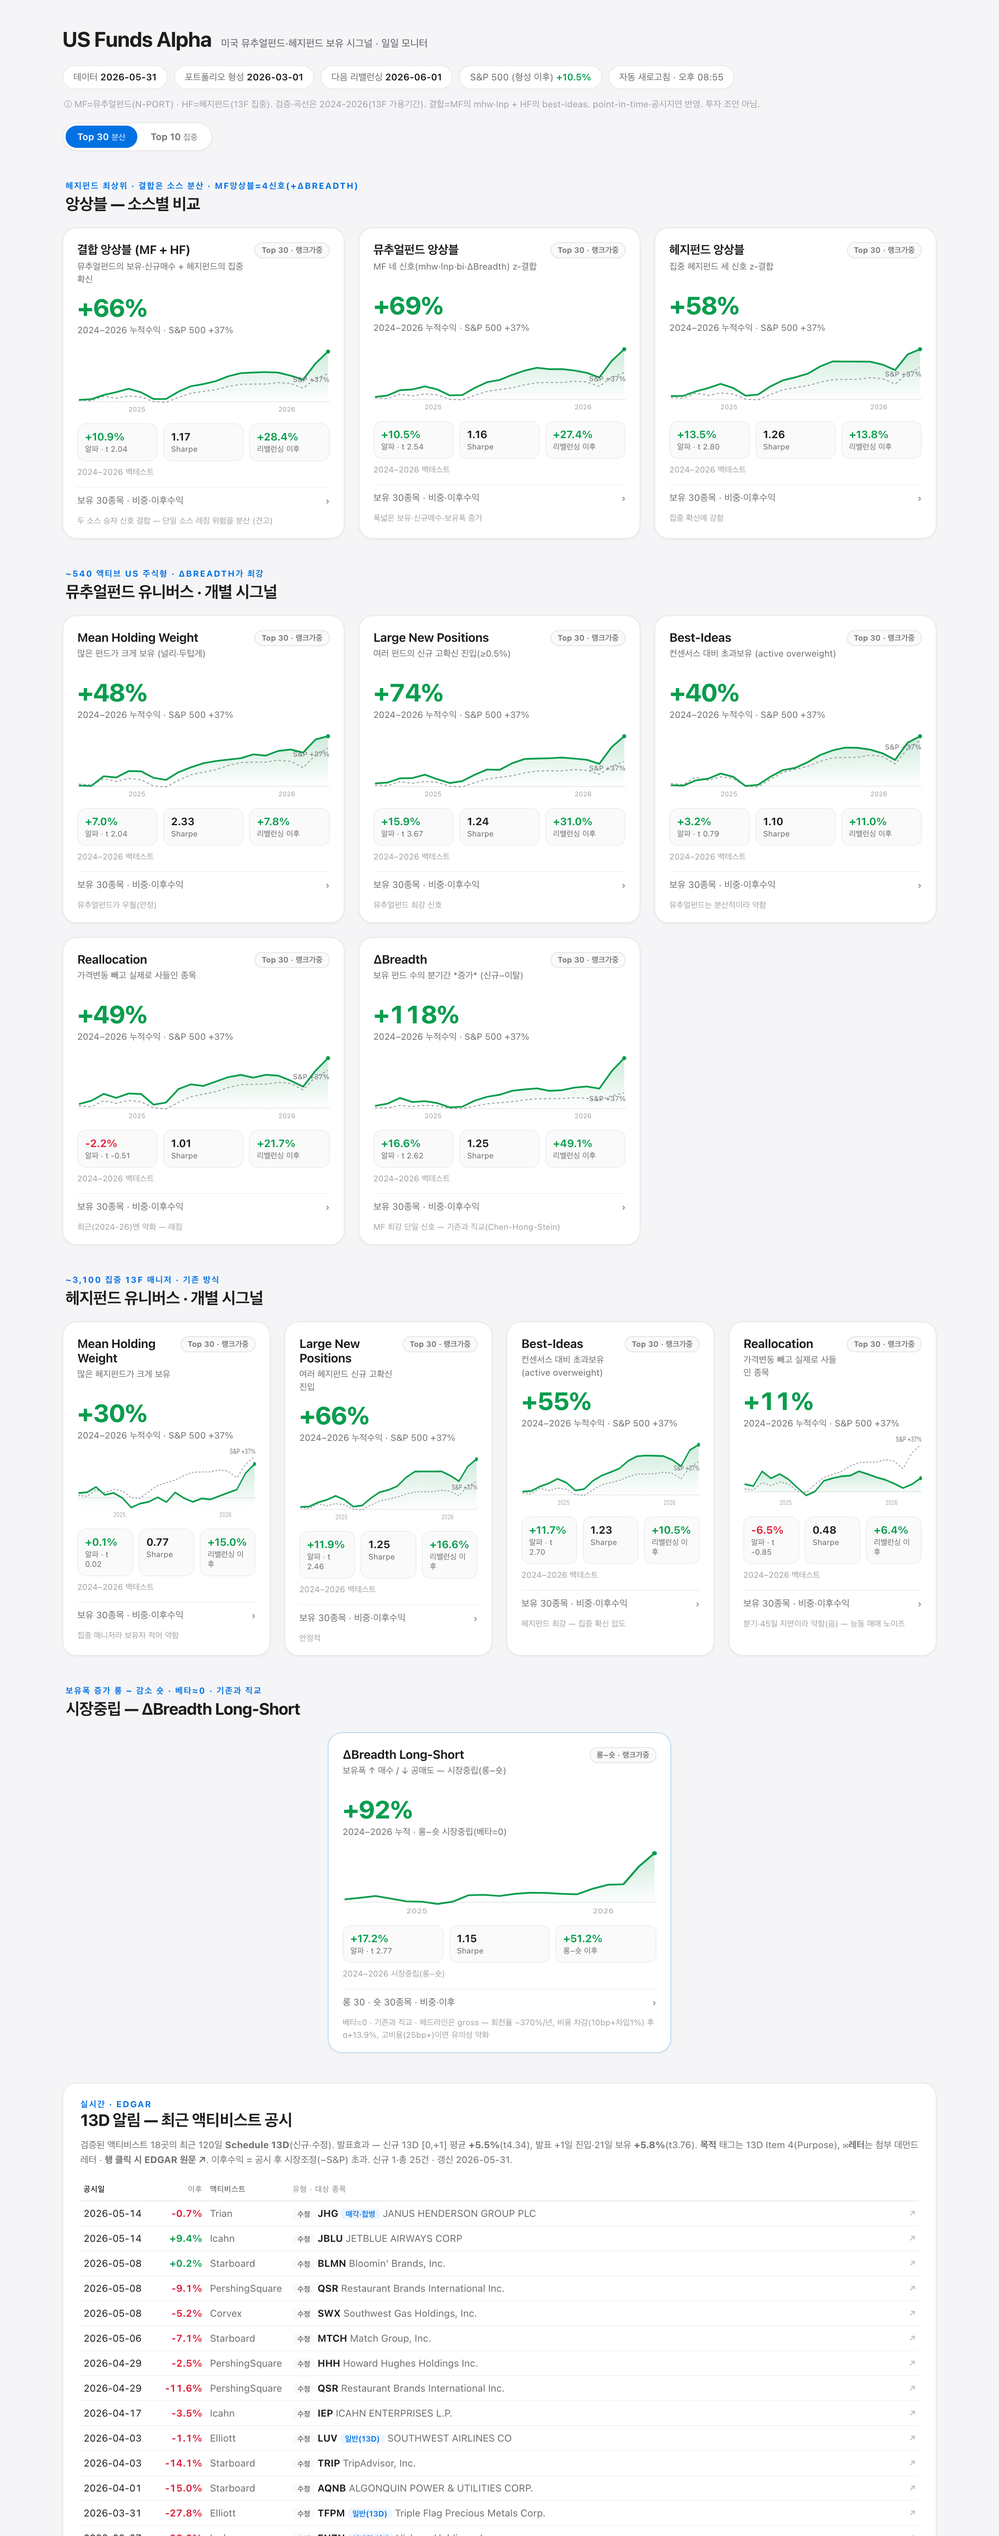
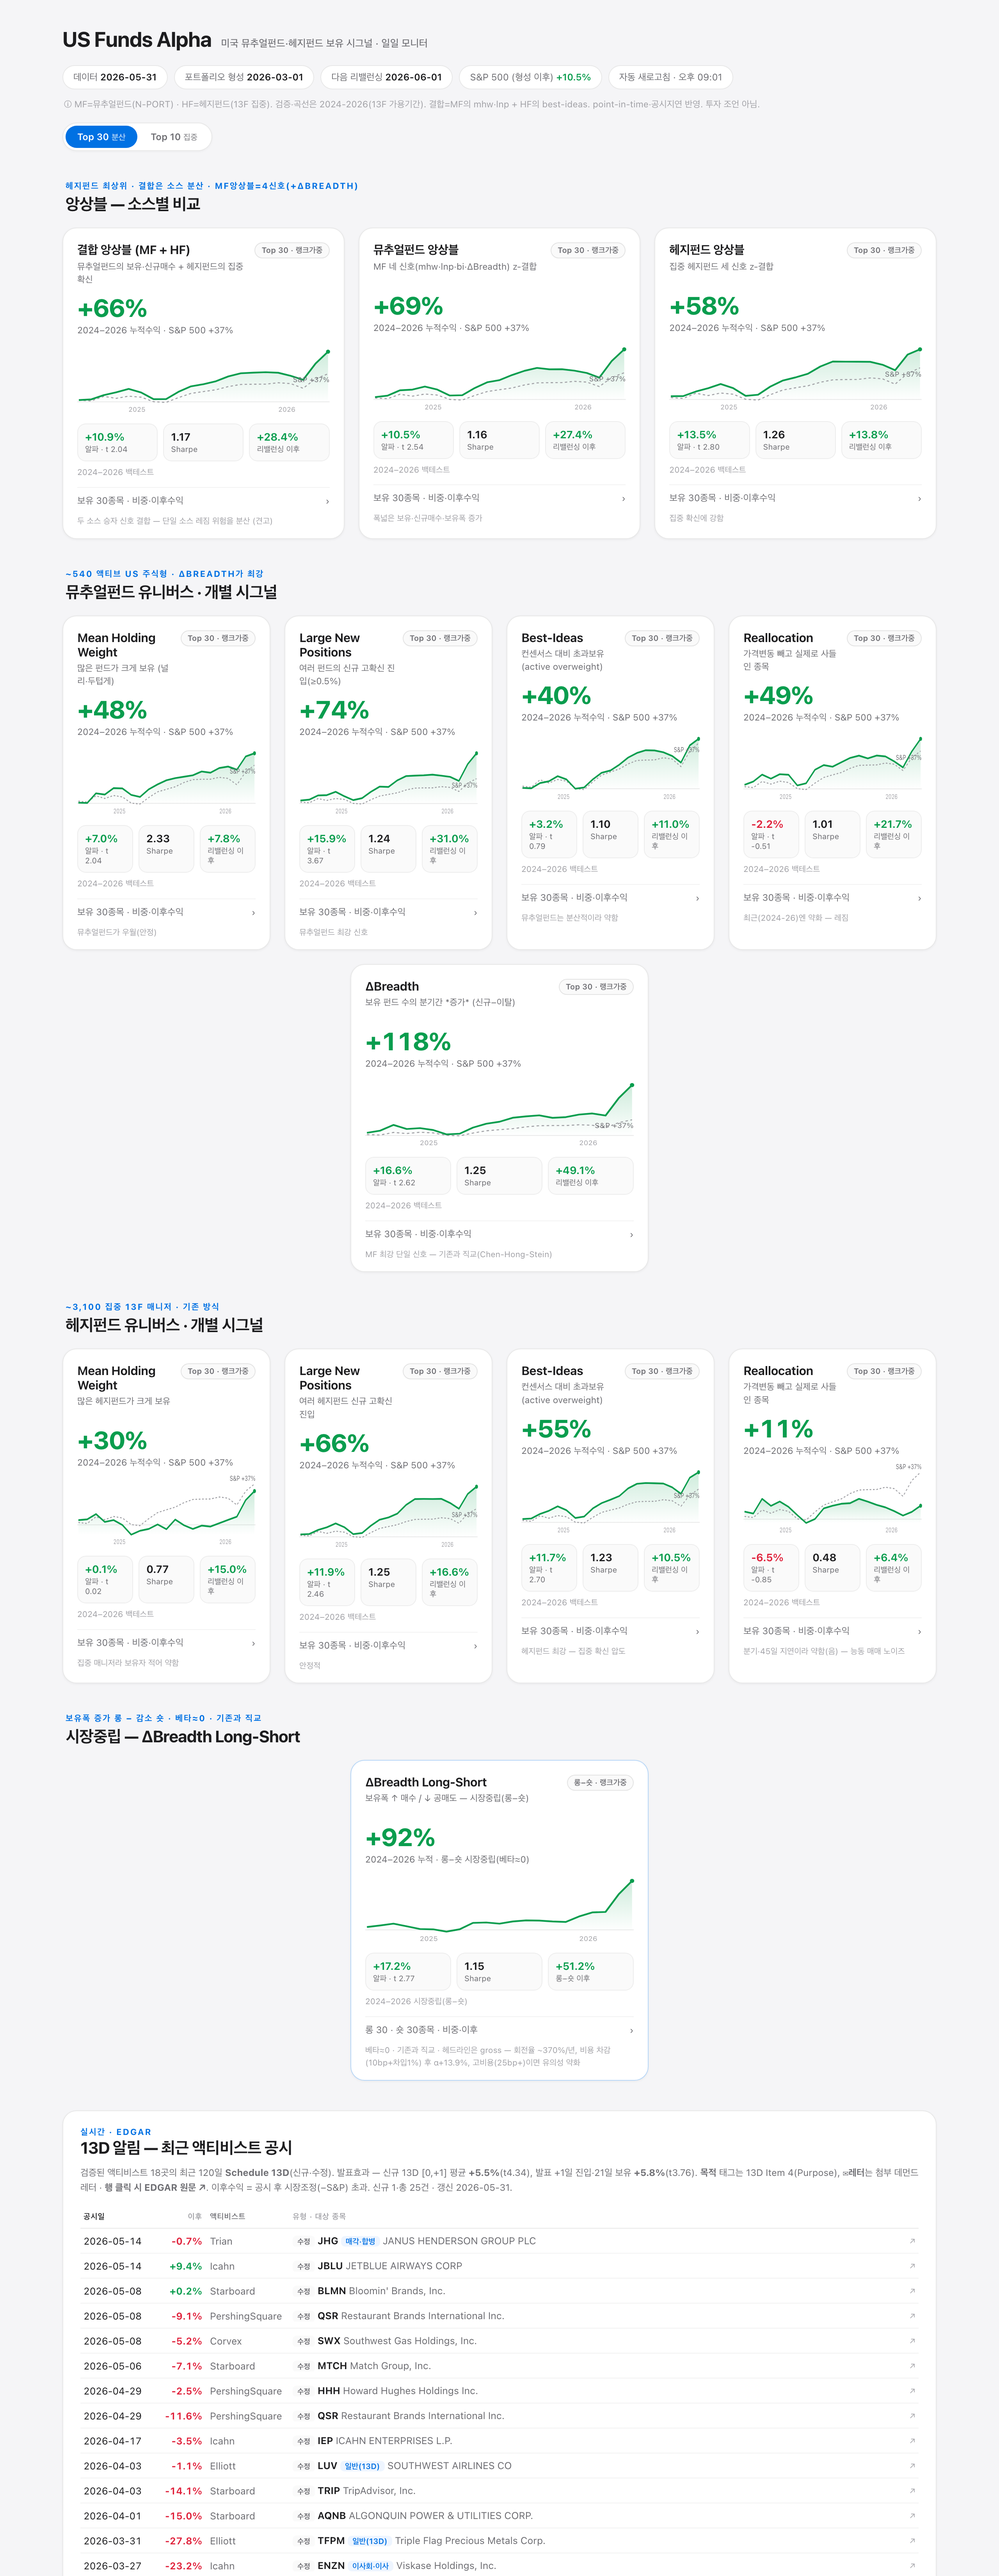
design: 카드 그리드 flexbox 재설계 — 일관 폭 + 미완성 행 중앙 featured
탑티어 UI/UX 관점 재배치 (정보 누락 0):
 - 문제: 구역마다 카드 폭 제각각(앙상블 370·MF 3+2 370·HF 270·LS 440) → 리듬 깨짐.
   5카드는 어떤 격자에도 안 나뉘어 4+1/3+2 모두 빈칸·외톨이 발생.
 - 해법: .grid를 flexbox(flex-wrap + justify-content:center)로.
   가득 찬 행=균일 폭(~290px), 단독/히어로 카드(앙상블 3·ΔBreadth·롱숏)=중앙 featured(≤382px).
   ΔBreadth가 2행 중앙에 떨어져 "최강 단일 신호" 강조로 읽힘(섹션 부제와 정합).
 - .metrics도 repeat(3,minmax(0,1fr))+min-width:0로 좁은 카드에서 넘침 방지.
 - 모바일 단일 컬럼·데스크톱 멀티 컬럼 반응형, 전 카드·전 메트릭·토글·피드 모두 유지.

diff --git a/dashboard/index.html b/dashboard/index.html
@@ -56,11 +56,10 @@ html,body{margin:0;background:var(--bg);color:var(--fg);overflow-x:hidden;
 .section-head .lab{display:block;font-size:11px;font-weight:700;letter-spacing:1.3px;
   text-transform:uppercase;color:var(--accent)}
 .section-head h2{font-size:21px;font-weight:700;letter-spacing:-.4px;margin:3px 0 0}
-.grid{display:grid;grid-template-columns:1fr;gap:18px}
-@media(min-width:740px){.grid{grid-template-columns:1fr 1fr}}
-@media(min-width:1080px){.grid.four{grid-template-columns:repeat(4,minmax(0,1fr))}.grid.three{grid-template-columns:repeat(3,minmax(0,1fr))}}
-/* 5카드(MF)는 한 줄에 욱여넣지 않고 넓은 3+2 배치 — 카드 폭 확보(metrics 넘침 방지) */
-@media(min-width:740px){.grid.five{grid-template-columns:repeat(3,minmax(0,1fr))}}
+/* 카드 그리드 — flexbox로 폭 일관 + 미완성 행 중앙정렬.
+   가득 찬 행=균일 폭(~290px), 단독/히어로 카드(앙상블·ΔBreadth·롱숏)=중앙 featured(≤380px). */
+.grid{display:flex;flex-wrap:wrap;gap:18px;justify-content:center}
+.grid>*{flex:1 1 262px;min-width:0;max-width:382px}
 @media(min-width:560px){.grid.one{grid-template-columns:minmax(0,440px);justify-content:center}}
 .card.mn{border-color:rgba(0,113,227,.28)}
 .sd{display:inline-block;font-size:9px;font-weight:700;width:13px;height:13px;line-height:13px;text-align:center;
